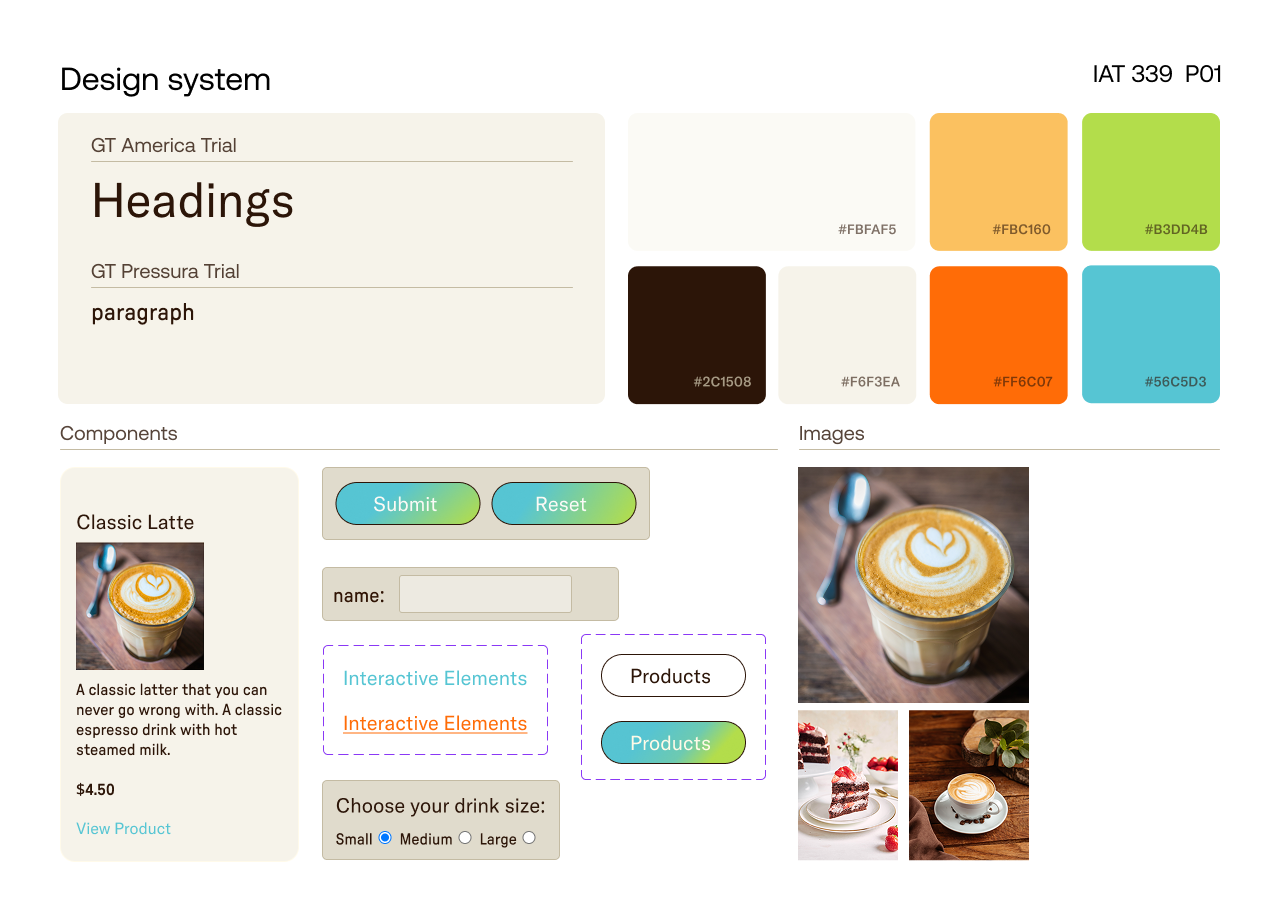
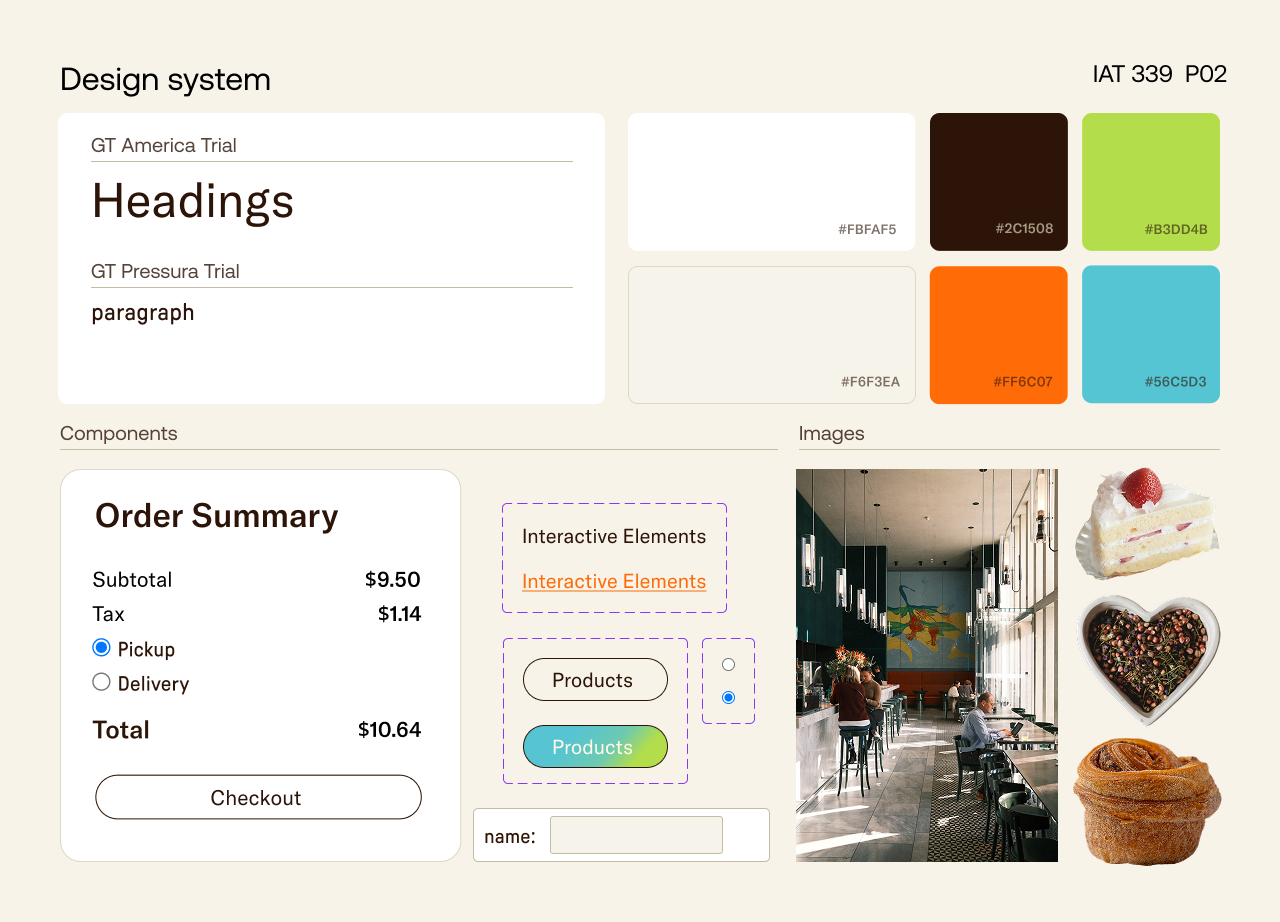
Editing Style Guide Components Images

diff --git a/P1_km/html/style_guide.html b/P1_km/html/style_guide.html
@@ -510,15 +510,15 @@
 
       <h3>Design System</h3>
 
-      <img src="../html/img/design-system.png" alt="website design system" width="500">
+      <img src="../html/img/design-system.png" alt="website design system" width="1000">
 
       <h3>Fonts</h3>
       <h4>GT America Standard</h4>
       <p>GT Pressura Regular</p>
 
       <h3>Imagery</h3>
-      <img src="../html/img/cake.jpg" alt="cake" width="100">
-      <img src="../html/img/coffee.jpg" alt="a cup of coffee" width="100">
+      <img src="../Landing.png" alt="Landing Page Illustration" width="100">
+      <img src="/img/icons/" alt="a cup of coffee" width="100">
       <img src="../html/img/latte.jpg" alt="latte" width="100">
 
     </section>
